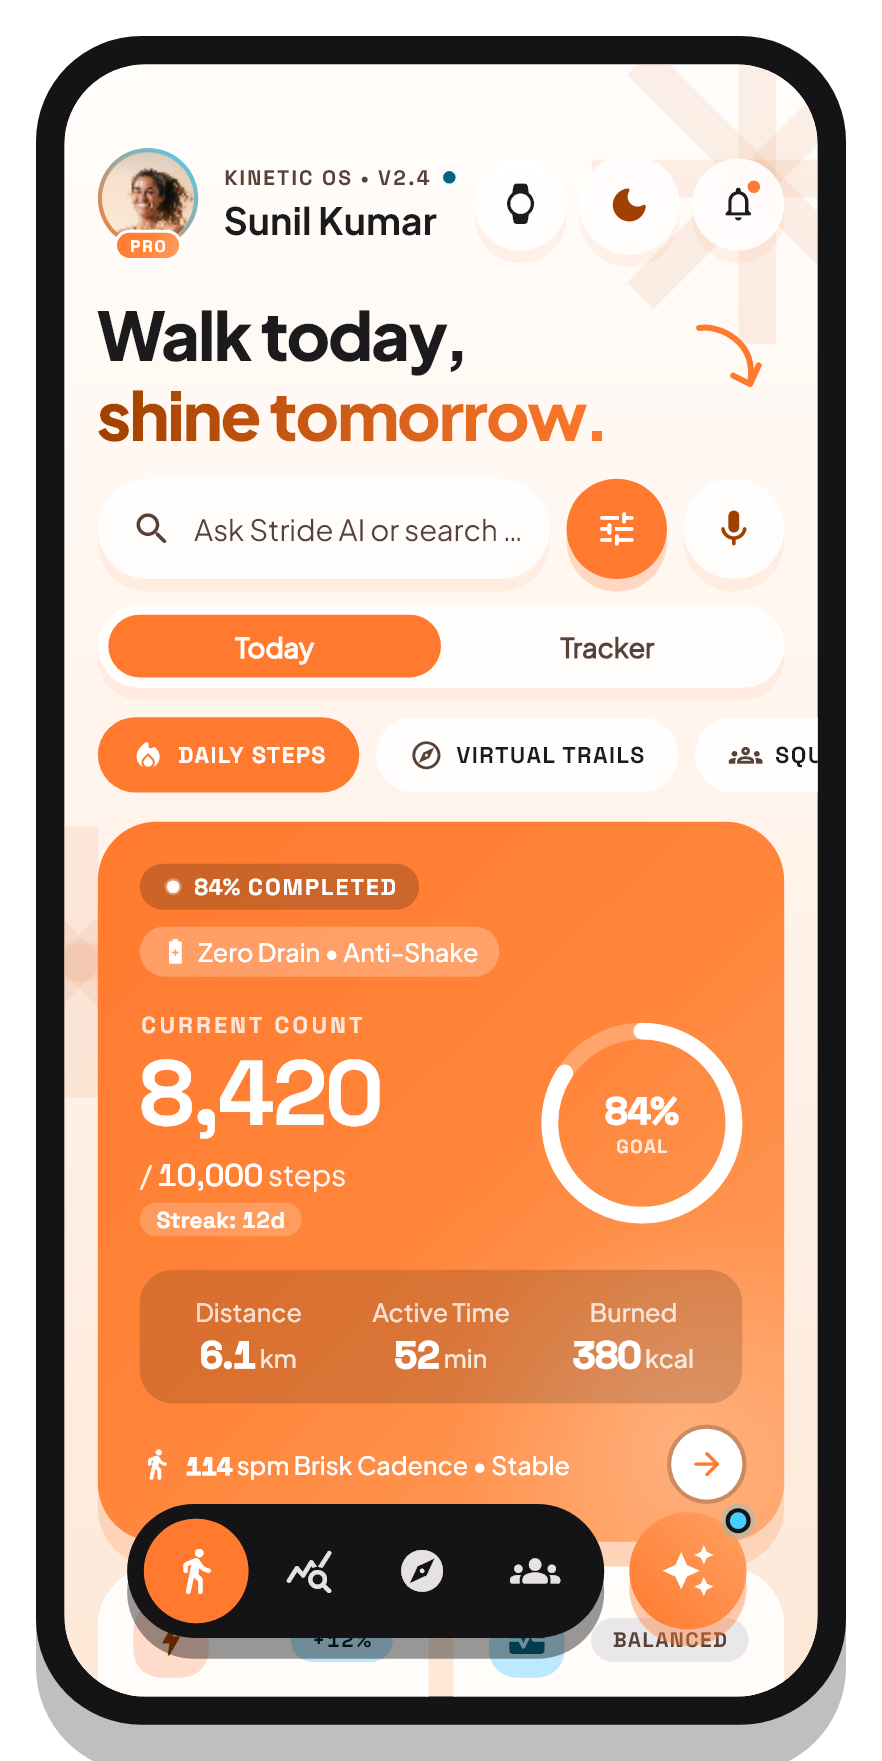
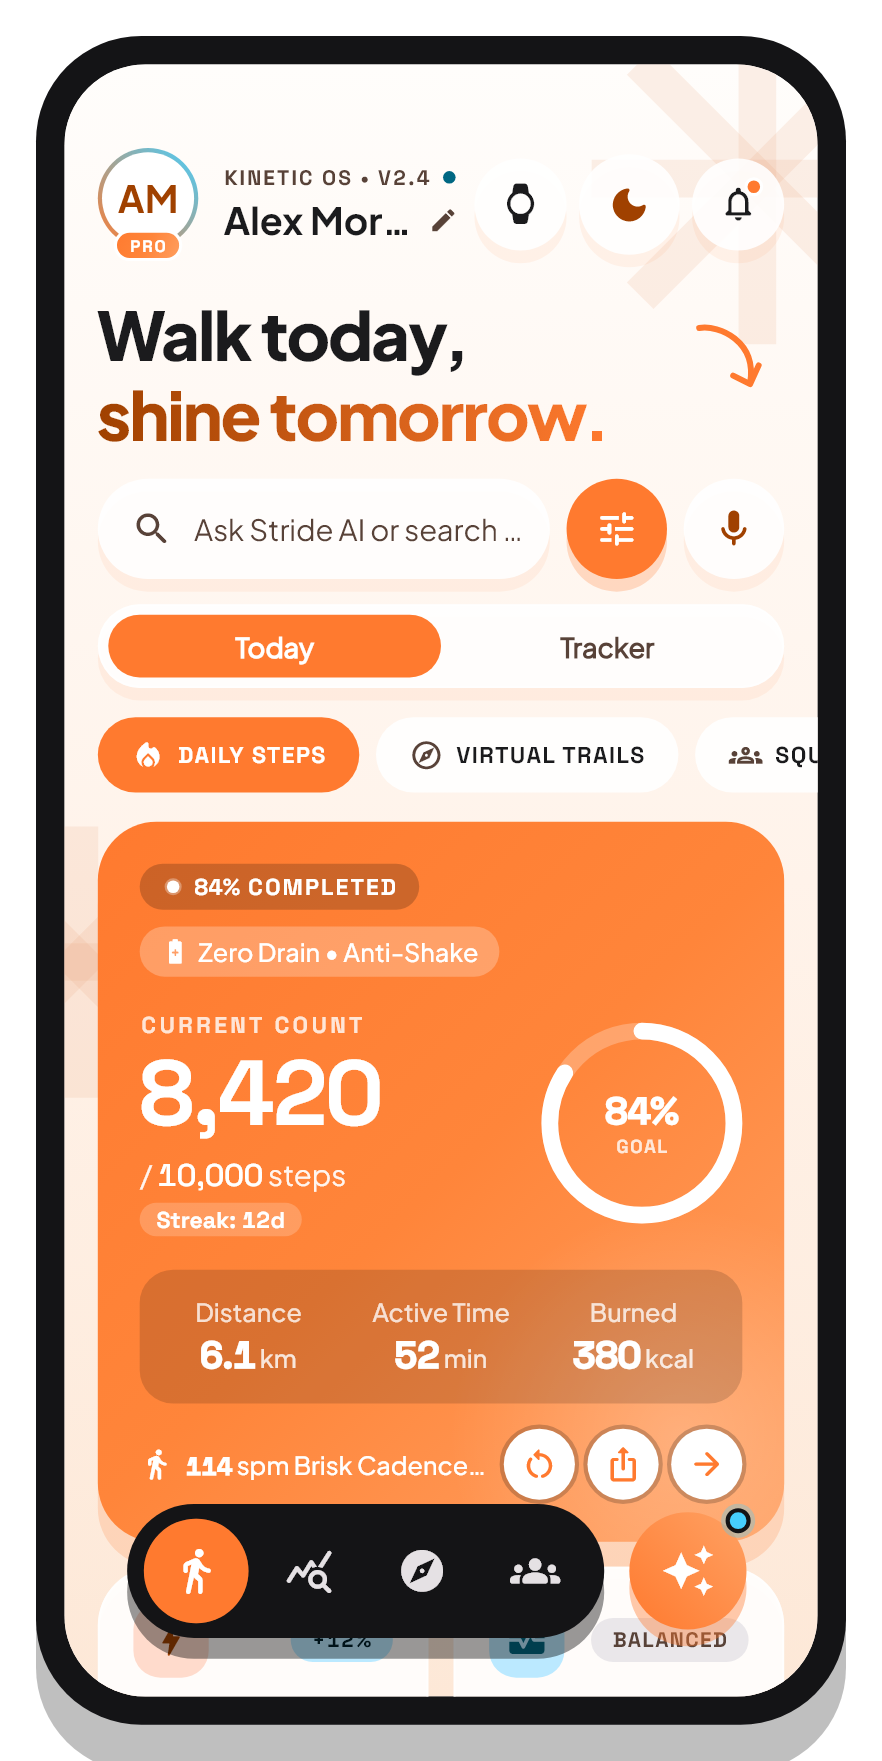
README for v1.0.2; refresh promo phone renders; ignore preview cache

Changed region(s): [[0.551, 0.812, 0.7653, 0.8745], [0.2449, 0.0937, 0.4898, 0.1562], [0.0918, 0.0625, 0.2143, 0.1562]]

diff --git a/README.md b/README.md
@@ -1,17 +1,67 @@
-# aerostep_ai
+# AeroStep AI: Smart Pedometer & Walk Coach
 
-A new Flutter project.
+Flutter app (Android + iOS) · package `com.sunilkhatri.aerostep` · current version **1.0.2 (3)**
 
-## Getting Started
+Accurate, zero-GPS step counter with an anti-shake / vehicle filter, a Gemini-powered walking coach, widgets and a warm "Bento" design.
 
-This project is a starting point for a Flutter application.
+- Google Play (closed testing): <https://play.google.com/apps/testing/com.sunilkhatri.aerostep>
+- Privacy policy: <https://sunilkumar101.github.io/aerostep_ai/privacy-policy.html>
 
-A few resources to get you started if this is your first Flutter project:
+## Features
 
-- [Learn Flutter](https://docs.flutter.dev/get-started/learn-flutter)
-- [Write your first Flutter app](https://docs.flutter.dev/get-started/codelab)
-- [Flutter learning resources](https://docs.flutter.dev/reference/learning-resources)
+- **Hardware step counter, zero GPS.** Uses `TYPE_STEP_COUNTER` / CoreMotion. No background service: the sensor keeps counting while the app is closed, and the backlog is added (spread over the gap) when the app opens.
+- **Anti-shake & vehicle auto-pause.** Steps count only after a 60–220 SPM rhythm holds for more than 6 s; activity recognition pauses counting in cars, buses and on bikes.
+- **Health Connect / HealthKit sync** with 15-minute UTC bucket de-duplication (watch + phone never double count) and a timezone-proof ledger.
+- **Start today from 0.** Reset today's counter (history kept, undo, ends at midnight).
+- **Share progress.** Exports a 4:5 progress image to Instagram, Facebook, WhatsApp, etc.
+- **Your own profile name** (tap the header to edit).
+- **Squads.** A local friends list ranked against your real weekly steps, plus Kinetic Step Bingo.
+- **Stride AI coach** powered by the Gemini API, with a one-time consent prompt and an offline fallback coach.
+- **Streak Shields**, hydration tracking, live walk mode, trends, Android home-screen widgets, light + espresso dark themes.
+- **Ethical ads.** Only optional rewarded videos; no popup/interstitial ads.
 
-For help getting started with Flutter development, view the
-[online documentation](https://docs.flutter.dev/), which offers tutorials,
-samples, guidance on mobile development, and a full API reference.
+## Project layout
+
+```
+lib/
+  app/              router, shell, dock
+  core/
+    ai/             Gemini client (gemini_coach.dart)
+    pedometer/      step engine, cadence gate, health sync, snapshot builder
+    data/           drift database (UTC step ledger)
+    state/          Riverpod providers (profile, activity, hydration, shields)
+  design_system/    Warm Bento tokens, typography, widgets
+  features/         home, analysis, trails, squads, coach, live_walk, onboarding, unlock, widgets_showcase
+android/ ios/       platform projects (iOS WidgetKit sources in ios/AeroStepWidget)
+docs/               GitHub Pages: privacy policy, terms, app-ads.txt
+store_assets/       Play listing copy, screenshots, feature graphic, promo video project
+tool/               store screenshot renderer, PNG flattener
+test/               engine unit tests + 360px no-overflow smoke tests
+```
+
+## Setup
+
+1. Flutter 3.44+ (Dart 3.12).
+2. `flutter pub get`
+3. **Gemini key (optional):** copy `secrets.example.json` to `secrets.json` and put your Google AI Studio key in `GEMINI_API_KEY`. `secrets.json` is git-ignored. Without a key the coach uses the built-in offline answers.
+   Restrict the key in Google Cloud Console → Credentials → *Android apps* to `com.sunilkhatri.aerostep` + your signing-certificate SHA-1s (the app sends the `X-Android-Package` / `X-Android-Cert` headers).
+4. **Release signing:** `android/key.properties` + the upload keystore are git-ignored (kept in a private repo).
+
+## Run, test, build
+
+```bash
+flutter run --dart-define-from-file=secrets.json
+flutter analyze
+flutter test --dart-define=AERO_DEMO=true
+flutter build appbundle --release --dart-define-from-file=secrets.json
+```
+
+`AERO_DEMO=true` runs the UI with demo data (used by tests and the store screenshot renderer).
+
+Store screenshots: `flutter test --dart-define=AERO_DEMO=true tool/store_assets_render_test.dart && python tool/flatten_store_pngs.py`
+
+## Changelog
+
+- **1.0.2 (3)**: reset-to-zero, share progress image, editable name, local friends squads, Gemini AI coach, updated privacy policy and Data safety.
+- **1.0.1 (2)**: removed the health foreground service (closed-app steps credited on next open, spread over the gap).
+- **1.0.0 (1)**: first release.
